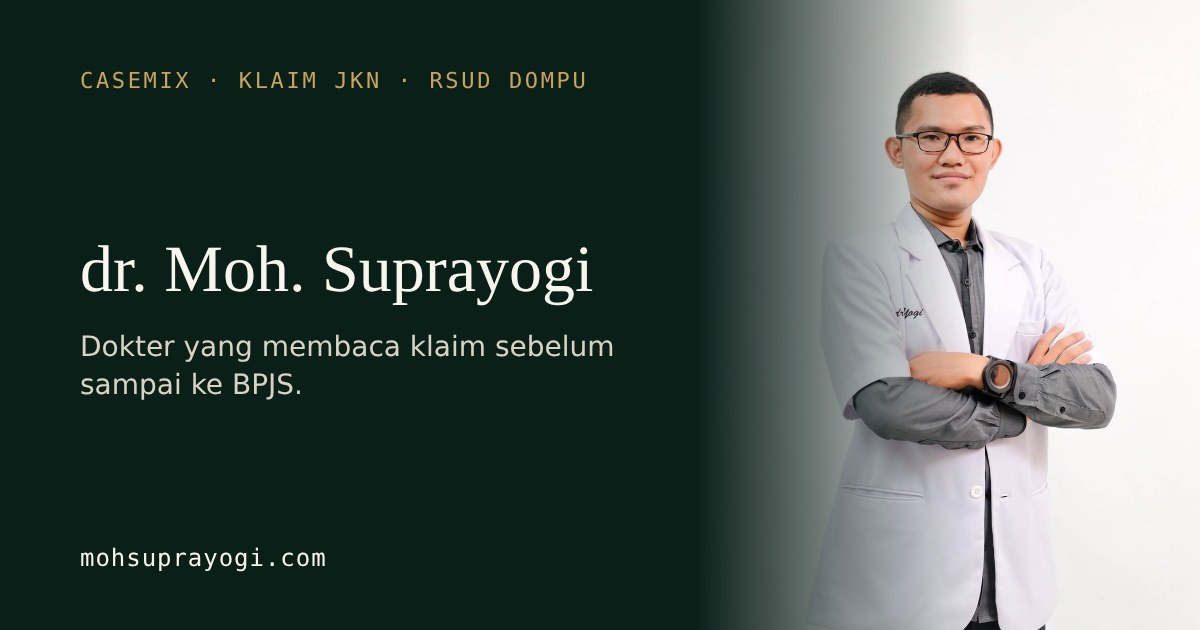
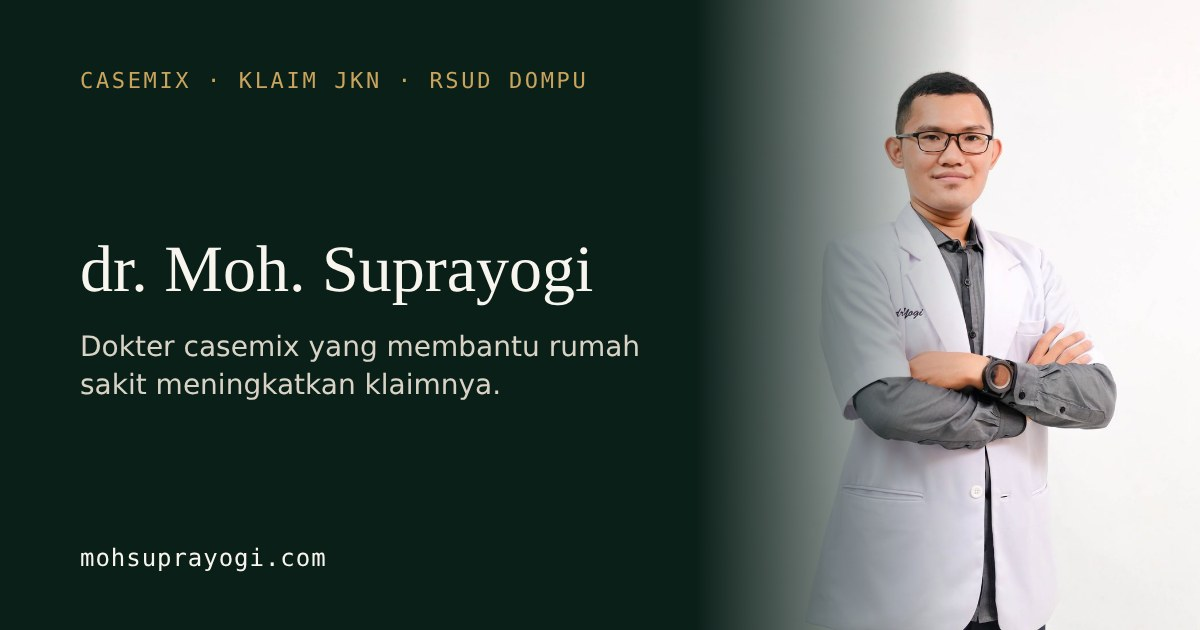
Tulis ulang hero: peran casemix dalam meningkatkan klaim RS
Claude-Session: https://claude.ai/code/session_012jxa21s9yt2btrEEhYHFEC

Changed region(s): [[0.0925, 0.5127, 0.5242, 0.6333]]

diff --git a/en/index.html b/en/index.html
@@ -5,7 +5,7 @@
 <meta charset="utf-8"/>
 <meta content="width=device-width, initial-scale=1" name="viewport"/>
 <title>Dr. Moh. Suprayogi | Casemix Doctor and JKN Claims Verifier</title>
-<meta name="description" content="General practitioner and internal casemix verifier at RSUD Dompu, Indonesia. Helping JKN claims hold up: INA-CBGs, iDRG, ICD-10, VPK/AAK, claim disputes.">
+<meta name="description" content="General practitioner and internal casemix verifier at RSUD Dompu, Indonesia. Helping hospitals raise INA-CBGs claims within the rules: ICD-10, iDRG, VPK/AAK.">
 <meta name="robots" content="index, follow, max-image-preview:large">
 <meta name="author" content="dr. Moh. Suprayogi">
 <meta name="theme-color" content="#0B1F19">
@@ -17,7 +17,7 @@
 <meta property="og:type" content="website">
 <meta property="og:site_name" content="dr. Moh. Suprayogi">
 <meta property="og:title" content="Dr. Moh. Suprayogi | Casemix Doctor and JKN Claims Verifier">
-<meta property="og:description" content="General practitioner and internal casemix verifier at RSUD Dompu, Indonesia. Helping JKN claims hold up: INA-CBGs, iDRG, ICD-10, VPK/AAK, claim disputes.">
+<meta property="og:description" content="General practitioner and internal casemix verifier at RSUD Dompu, Indonesia. Helping hospitals raise INA-CBGs claims within the rules: ICD-10, iDRG, VPK/AAK.">
 <meta property="og:url" content="https://mohsuprayogi.com/en/">
 <meta property="og:locale" content="en_US">
 <meta property="og:locale:alternate" content="id_ID">
@@ -27,9 +27,9 @@
 <meta property="og:image:alt" content="Dr. Moh. Suprayogi, casemix doctor and JKN claims verifier at RSUD Dompu">
 <meta name="twitter:card" content="summary_large_image">
 <meta name="twitter:title" content="Dr. Moh. Suprayogi | Casemix Doctor and JKN Claims Verifier">
-<meta name="twitter:description" content="General practitioner and internal casemix verifier at RSUD Dompu, Indonesia. Helping JKN claims hold up: INA-CBGs, iDRG, ICD-10, VPK/AAK, claim disputes.">
+<meta name="twitter:description" content="General practitioner and internal casemix verifier at RSUD Dompu, Indonesia. Helping hospitals raise INA-CBGs claims within the rules: ICD-10, iDRG, VPK/AAK.">
 <meta name="twitter:image" content="https://mohsuprayogi.com/og.jpg">
-<script type="application/ld+json">{"@context":"https://schema.org","@graph":[{"@type":"Person","@id":"https://mohsuprayogi.com/#person","name":"dr. Moh. Suprayogi","alternateName":["Moh. Suprayogi"],"url":"https://mohsuprayogi.com/","image":"https://mohsuprayogi.com/foto.jpg","jobTitle":"General Practitioner and Internal Casemix Verifier","email":"mailto:mohsuprayogi17@gmail.com","worksFor":{"@type":"Organization","name":"RSUD Dompu","address":{"@type":"PostalAddress","addressLocality":"Dompu","addressRegion":"Nusa Tenggara Barat","addressCountry":"ID"}},"knowsAbout":["Casemix","INA-CBGs","iDRG","ICD-10","ICD-9-CM","Verifikasi Pasca Klaim (VPK)","Audit Administrasi Klaim (AAK)","Dispute klaim JKN","Audit potensi fraud klaim"],"knowsLanguage":["id","en"]},{"@type":"WebSite","@id":"https://mohsuprayogi.com/#website","url":"https://mohsuprayogi.com/","name":"dr. Moh. Suprayogi","inLanguage":["id","en"],"publisher":{"@id":"https://mohsuprayogi.com/#person"}},{"@type":"WebPage","@id":"https://mohsuprayogi.com/en/#webpage","url":"https://mohsuprayogi.com/en/","name":"Dr. Moh. Suprayogi | Casemix Doctor and JKN Claims Verifier","description":"General practitioner and internal casemix verifier at RSUD Dompu, Indonesia. Helping JKN claims hold up: INA-CBGs, iDRG, ICD-10, VPK/AAK, claim disputes.","inLanguage":"en","isPartOf":{"@id":"https://mohsuprayogi.com/#website"},"about":{"@id":"https://mohsuprayogi.com/#person"},"primaryImageOfPage":{"@type":"ImageObject","url":"https://mohsuprayogi.com/og.jpg"}}]}</script>
+<script type="application/ld+json">{"@context":"https://schema.org","@graph":[{"@type":"Person","@id":"https://mohsuprayogi.com/#person","name":"dr. Moh. Suprayogi","alternateName":["Moh. Suprayogi"],"url":"https://mohsuprayogi.com/","image":"https://mohsuprayogi.com/foto.jpg","jobTitle":"General Practitioner and Internal Casemix Verifier","email":"mailto:mohsuprayogi17@gmail.com","worksFor":{"@type":"Organization","name":"RSUD Dompu","address":{"@type":"PostalAddress","addressLocality":"Dompu","addressRegion":"Nusa Tenggara Barat","addressCountry":"ID"}},"knowsAbout":["Casemix","INA-CBGs","iDRG","ICD-10","ICD-9-CM","Verifikasi Pasca Klaim (VPK)","Audit Administrasi Klaim (AAK)","Dispute klaim JKN","Audit potensi fraud klaim"],"knowsLanguage":["id","en"]},{"@type":"WebSite","@id":"https://mohsuprayogi.com/#website","url":"https://mohsuprayogi.com/","name":"dr. Moh. Suprayogi","inLanguage":["id","en"],"publisher":{"@id":"https://mohsuprayogi.com/#person"}},{"@type":"WebPage","@id":"https://mohsuprayogi.com/en/#webpage","url":"https://mohsuprayogi.com/en/","name":"Dr. Moh. Suprayogi | Casemix Doctor and JKN Claims Verifier","description":"General practitioner and internal casemix verifier at RSUD Dompu, Indonesia. Helping hospitals raise INA-CBGs claims within the rules: ICD-10, iDRG, VPK/AAK.","inLanguage":"en","isPartOf":{"@id":"https://mohsuprayogi.com/#website"},"about":{"@id":"https://mohsuprayogi.com/#person"},"primaryImageOfPage":{"@type":"ImageObject","url":"https://mohsuprayogi.com/og.jpg"}}]}</script>
 <link href="https://fonts.googleapis.com" rel="preconnect"/>
 <link crossorigin="" href="https://fonts.gstatic.com" rel="preconnect"/>
 <link href="https://fonts.googleapis.com/css2?family=Hanken+Grotesk:wght@400;500;600&amp;family=IBM+Plex+Mono:wght@400;500&amp;family=Instrument+Serif:ital@0;1&amp;display=swap" rel="stylesheet"/>
@@ -363,8 +363,8 @@ footer.foot .wrap{display:flex;flex-wrap:wrap;gap:8px 24px;justify-content:space
 <div>
 <p class="mono">General practitioner · Internal casemix verifier</p>
 <h1>dr. Moh. Suprayogi</h1>
-<h2>Before a claim reaches BPJS, I read it <em>as a doctor would</em>.</h2>
-<p class="lede">I work at RSUD Dompu, making sure the medical record and the codes on a claim tell the same story.</p>
+<h2>A casemix doctor who helps hospitals <em>raise their claims</em>.</h2>
+<p class="lede">At RSUD Dompu, I make sure the diagnosis, procedures, examinations and medical record agree before a claim is submitted. The aim is to lower the risk of pending and returned claims and to raise INA-CBGs claims in line with the applicable rules.</p>
 <div class="cta">
 <a class="btn solid" href="https://wa.me/6282359141160" id="cta-wa">Chat on WhatsApp</a>
 <a class="btn line" data-playdemo="" href="#demo">▶ Watch the 50-second demo</a>

diff --git a/index.html b/index.html
@@ -5,7 +5,7 @@
 <meta charset="utf-8"/>
 <meta content="width=device-width, initial-scale=1" name="viewport"/>
 <title>dr. Moh. Suprayogi | Dokter Casemix dan Verifikator Klaim JKN</title>
-<meta name="description" content="Dokter umum dan verifikator internal casemix di RSUD Dompu. Membantu klaim JKN lebih rapi: INA-CBGs, iDRG, ICD-10, VPK/AAK, dispute klaim.">
+<meta name="description" content="Dokter umum dan verifikator internal casemix di RSUD Dompu. Membantu rumah sakit meningkatkan klaim INA-CBGs sesuai kaidah: ICD-10, iDRG, VPK/AAK.">
 <meta name="robots" content="index, follow, max-image-preview:large">
 <meta name="author" content="dr. Moh. Suprayogi">
 <meta name="theme-color" content="#0B1F19">
@@ -17,7 +17,7 @@
 <meta property="og:type" content="website">
 <meta property="og:site_name" content="dr. Moh. Suprayogi">
 <meta property="og:title" content="dr. Moh. Suprayogi | Dokter Casemix dan Verifikator Klaim JKN">
-<meta property="og:description" content="Dokter umum dan verifikator internal casemix di RSUD Dompu. Membantu klaim JKN lebih rapi: INA-CBGs, iDRG, ICD-10, VPK/AAK, dispute klaim.">
+<meta property="og:description" content="Dokter umum dan verifikator internal casemix di RSUD Dompu. Membantu rumah sakit meningkatkan klaim INA-CBGs sesuai kaidah: ICD-10, iDRG, VPK/AAK.">
 <meta property="og:url" content="https://mohsuprayogi.com/">
 <meta property="og:locale" content="id_ID">
 <meta property="og:locale:alternate" content="en_US">
@@ -27,9 +27,9 @@
 <meta property="og:image:alt" content="dr. Moh. Suprayogi, dokter casemix dan verifikator klaim JKN di RSUD Dompu">
 <meta name="twitter:card" content="summary_large_image">
 <meta name="twitter:title" content="dr. Moh. Suprayogi | Dokter Casemix dan Verifikator Klaim JKN">
-<meta name="twitter:description" content="Dokter umum dan verifikator internal casemix di RSUD Dompu. Membantu klaim JKN lebih rapi: INA-CBGs, iDRG, ICD-10, VPK/AAK, dispute klaim.">
+<meta name="twitter:description" content="Dokter umum dan verifikator internal casemix di RSUD Dompu. Membantu rumah sakit meningkatkan klaim INA-CBGs sesuai kaidah: ICD-10, iDRG, VPK/AAK.">
 <meta name="twitter:image" content="https://mohsuprayogi.com/og.jpg">
-<script type="application/ld+json">{"@context":"https://schema.org","@graph":[{"@type":"Person","@id":"https://mohsuprayogi.com/#person","name":"dr. Moh. Suprayogi","alternateName":["Moh. Suprayogi"],"url":"https://mohsuprayogi.com/","image":"https://mohsuprayogi.com/foto.jpg","jobTitle":"Dokter Umum dan Verifikator Internal Casemix","email":"mailto:mohsuprayogi17@gmail.com","worksFor":{"@type":"Organization","name":"RSUD Dompu","address":{"@type":"PostalAddress","addressLocality":"Dompu","addressRegion":"Nusa Tenggara Barat","addressCountry":"ID"}},"knowsAbout":["Casemix","INA-CBGs","iDRG","ICD-10","ICD-9-CM","Verifikasi Pasca Klaim (VPK)","Audit Administrasi Klaim (AAK)","Dispute klaim JKN","Audit potensi fraud klaim"],"knowsLanguage":["id","en"]},{"@type":"WebSite","@id":"https://mohsuprayogi.com/#website","url":"https://mohsuprayogi.com/","name":"dr. Moh. Suprayogi","inLanguage":["id","en"],"publisher":{"@id":"https://mohsuprayogi.com/#person"}},{"@type":"WebPage","@id":"https://mohsuprayogi.com/#webpage","url":"https://mohsuprayogi.com/","name":"dr. Moh. Suprayogi | Dokter Casemix dan Verifikator Klaim JKN","description":"Dokter umum dan verifikator internal casemix di RSUD Dompu. Membantu klaim JKN lebih rapi: INA-CBGs, iDRG, ICD-10, VPK/AAK, dispute klaim.","inLanguage":"id","isPartOf":{"@id":"https://mohsuprayogi.com/#website"},"about":{"@id":"https://mohsuprayogi.com/#person"},"primaryImageOfPage":{"@type":"ImageObject","url":"https://mohsuprayogi.com/og.jpg"}}]}</script>
+<script type="application/ld+json">{"@context":"https://schema.org","@graph":[{"@type":"Person","@id":"https://mohsuprayogi.com/#person","name":"dr. Moh. Suprayogi","alternateName":["Moh. Suprayogi"],"url":"https://mohsuprayogi.com/","image":"https://mohsuprayogi.com/foto.jpg","jobTitle":"Dokter Umum dan Verifikator Internal Casemix","email":"mailto:mohsuprayogi17@gmail.com","worksFor":{"@type":"Organization","name":"RSUD Dompu","address":{"@type":"PostalAddress","addressLocality":"Dompu","addressRegion":"Nusa Tenggara Barat","addressCountry":"ID"}},"knowsAbout":["Casemix","INA-CBGs","iDRG","ICD-10","ICD-9-CM","Verifikasi Pasca Klaim (VPK)","Audit Administrasi Klaim (AAK)","Dispute klaim JKN","Audit potensi fraud klaim"],"knowsLanguage":["id","en"]},{"@type":"WebSite","@id":"https://mohsuprayogi.com/#website","url":"https://mohsuprayogi.com/","name":"dr. Moh. Suprayogi","inLanguage":["id","en"],"publisher":{"@id":"https://mohsuprayogi.com/#person"}},{"@type":"WebPage","@id":"https://mohsuprayogi.com/#webpage","url":"https://mohsuprayogi.com/","name":"dr. Moh. Suprayogi | Dokter Casemix dan Verifikator Klaim JKN","description":"Dokter umum dan verifikator internal casemix di RSUD Dompu. Membantu rumah sakit meningkatkan klaim INA-CBGs sesuai kaidah: ICD-10, iDRG, VPK/AAK.","inLanguage":"id","isPartOf":{"@id":"https://mohsuprayogi.com/#website"},"about":{"@id":"https://mohsuprayogi.com/#person"},"primaryImageOfPage":{"@type":"ImageObject","url":"https://mohsuprayogi.com/og.jpg"}}]}</script>
 <link href="https://fonts.googleapis.com" rel="preconnect"/>
 <link crossorigin="" href="https://fonts.gstatic.com" rel="preconnect"/>
 <link href="https://fonts.googleapis.com/css2?family=Hanken+Grotesk:wght@400;500;600&amp;family=IBM+Plex+Mono:wght@400;500&amp;family=Instrument+Serif:ital@0;1&amp;display=swap" rel="stylesheet"/>
@@ -363,8 +363,8 @@ footer.foot .wrap{display:flex;flex-wrap:wrap;gap:8px 24px;justify-content:space
 <div>
 <p class="mono">Dokter Umum · Verifikator Internal Casemix</p>
 <h1>dr. Moh. Suprayogi</h1>
-<h2>Sebelum klaim sampai ke BPJS, saya membacanya <em>sebagai dokter</em>.</h2>
-<p class="lede">Saya bekerja di RSUD Dompu, memastikan isi rekam medis dan kode di klaim menceritakan hal yang sama.</p>
+<h2>Dokter casemix yang membantu rumah sakit <em>meningkatkan klaimnya</em>.</h2>
+<p class="lede">Di RSUD Dompu, saya memastikan diagnosis, tindakan, pemeriksaan, dan rekam medis saling sesuai sebelum klaim diajukan. Tujuannya menurunkan risiko pending dan pengembalian, serta meningkatkan klaim INA-CBGs sesuai kaidah yang berlaku.</p>
 <div class="cta">
 <a class="btn solid" href="https://wa.me/6282359141160" id="cta-wa">Chat lewat WhatsApp</a>
 <a class="btn line" data-playdemo="" href="#demo">▶ Tonton demo 50 detik</a>

diff --git a/src.html b/src.html
@@ -339,8 +339,8 @@ footer.foot .wrap{display:flex;flex-wrap:wrap;gap:8px 24px;justify-content:space
     <div>
       <p class="mono" data-en="General practitioner · Internal casemix verifier">Dokter Umum · Verifikator Internal Casemix</p>
       <h1>dr. Moh. Suprayogi</h1>
-      <h2 data-en="Before a claim reaches BPJS, I read it <em>as a doctor would</em>.">Sebelum klaim sampai ke BPJS, saya membacanya <em>sebagai dokter</em>.</h2>
-      <p class="lede" data-en="I work at RSUD Dompu, making sure the medical record and the codes on a claim tell the same story.">Saya bekerja di RSUD Dompu, memastikan isi rekam medis dan kode di klaim menceritakan hal yang sama.</p>
+      <h2 data-en="A casemix doctor who helps hospitals <em>raise their claims</em>.">Dokter casemix yang membantu rumah sakit <em>meningkatkan klaimnya</em>.</h2>
+      <p class="lede" data-en="At RSUD Dompu, I make sure the diagnosis, procedures, examinations and medical record agree before a claim is submitted. The aim is to lower the risk of pending and returned claims and to raise INA-CBGs claims in line with the applicable rules.">Di RSUD Dompu, saya memastikan diagnosis, tindakan, pemeriksaan, dan rekam medis saling sesuai sebelum klaim diajukan. Tujuannya menurunkan risiko pending dan pengembalian, serta meningkatkan klaim INA-CBGs sesuai kaidah yang berlaku.</p>
       <div class="cta">
         <a class="btn solid" id="cta-wa" href="https://wa.me/6282359141160" data-en="Chat on WhatsApp">Chat lewat WhatsApp</a>
         <a class="btn line" href="#demo" data-playdemo data-en="&#9654; Watch the 50-second demo">&#9654; Tonton demo 50 detik</a>

diff --git a/build.py b/build.py
@@ -26,7 +26,7 @@ PAGES = {
         "href_id": "./",
         "href_en": "en/",
         "title": "dr. Moh. Suprayogi | Dokter Casemix dan Verifikator Klaim JKN",
-        "desc": "Dokter umum dan verifikator internal casemix di RSUD Dompu. Membantu klaim JKN lebih rapi: INA-CBGs, iDRG, ICD-10, VPK/AAK, dispute klaim.",
+        "desc": "Dokter umum dan verifikator internal casemix di RSUD Dompu. Membantu rumah sakit meningkatkan klaim INA-CBGs sesuai kaidah: ICD-10, iDRG, VPK/AAK.",
         "locale": "id_ID",
         "alt_locale": "en_US",
         "og_alt": "dr. Moh. Suprayogi, dokter casemix dan verifikator klaim JKN di RSUD Dompu",
@@ -39,7 +39,7 @@ PAGES = {
         "href_id": "../",
         "href_en": "./",
         "title": "Dr. Moh. Suprayogi | Casemix Doctor and JKN Claims Verifier",
-        "desc": "General practitioner and internal casemix verifier at RSUD Dompu, Indonesia. Helping JKN claims hold up: INA-CBGs, iDRG, ICD-10, VPK/AAK, claim disputes.",
+        "desc": "General practitioner and internal casemix verifier at RSUD Dompu, Indonesia. Helping hospitals raise INA-CBGs claims within the rules: ICD-10, iDRG, VPK/AAK.",
         "locale": "en_US",
         "alt_locale": "id_ID",
         "og_alt": "Dr. Moh. Suprayogi, casemix doctor and JKN claims verifier at RSUD Dompu",
